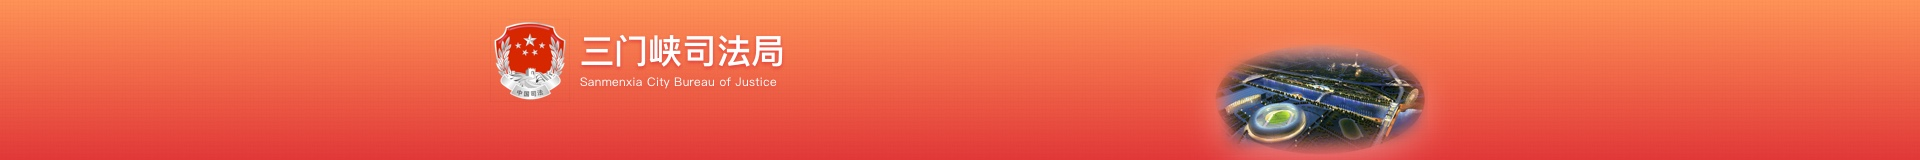
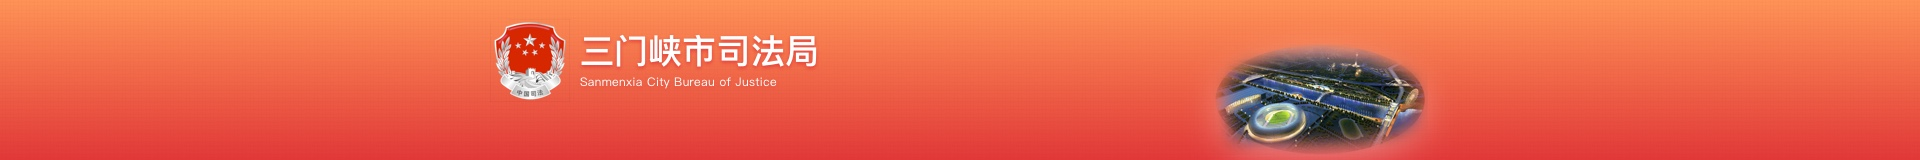
网上办事搜索跳转 搜索带关键字 banner图修改

Changed region(s): [[0.3438, 0.2188, 0.4375, 0.4375]]

diff --git a/public/css/web-style.css b/public/css/web-style.css
@@ -402,6 +402,12 @@ tr {display: table-row;vertical-align: inherit;border-color: inherit;}
 
 .left_title span{ font-family: MicrosoftYaHei; font-size: 14px; color: #DD3938}
 
+.mz_plus{ width: 80px; height: 20px; line-height: 20px; background: url("../images/plus.png") left no-repeat; float: right; text-align: right}
+
+.mz_plus a{ font-family: MicrosoftYaHei;font-size: 14px;color: #E23939;letter-spacing: 0; text-decoration: none}
+
+.mz_plus a:hover{ font-family: MicrosoftYaHei;font-size: 14px;color: #E23939;letter-spacing: 0; text-decoration: none}
+
 
 
 

diff --git a/resources/views/judicial/web/service/search.blade.php b/resources/views/judicial/web/service/search.blade.php
@@ -1,37 +1,51 @@
 <!DOCTYPE html>
 <html>
 @include('judicial.web.chips.headIndexWB')
-
 <body>
+<!--头部导航-->
 @include('judicial.web.chips.nav')
 
-<!--内容-->
-<div class="zw_right serach" style="min-height: 400px">
-    <div class="serach_body">
-        <form action="{{ URL::to('service/search') }}" method="post">
-            <input type="hidden" name="_token" value="<?php echo csrf_token(); ?>">
-            <input type="search" name="keywords" placeholder="输入搜索关键词" value="" style=" padding-right:10px; height: 40px; background: #FFFFFF; border: 1px solid #ECECEC;">
-            <button type="submit" class="serach_btn">搜索</button>
-        </form>
-    </div>
-    @if(isset($no_search) && $no_search=='yes')
-        <div class="serach_mid">
-            <p style="text-align: center;font-family: MicrosoftYaHei;font-size: 14px;color: #929292;letter-spacing: 0; margin-top: 40px">
-                请输入您要搜索的关键字
-            </p>
+        <!--内容-->
+<div class="w1024 zw_mb">
+    <!-- 左侧菜单 -->
+    @include('judicial.web.layout.serviceLeft')
+
+    <div class="zw_right w810">
+        <!--搜索栏-->
+        <div class="index_search ws_search">
+            <div class="id_sch_l">
+                办事事项查询
+            </div>
+            <div class="id_sch_r">
+                <form action="{{ URL::to('service/search') }}" method="post">
+                    <input type="hidden" name="_token" value="<?php echo csrf_token(); ?>">
+                    <input type="search" name="keywords" placeholder="输入搜索关键词" value="@if(isset($keywords) && !empty($keywords)) {{ $keywords }} @endif"/>
+                    <button type="submit">查询</button>
+                </form>
+            </div>
         </div>
-    @else
-    <div class="serach_mid">
-        @if($search_list != 'none')
-        <ul>
-            @foreach($search_list as $search)
-            <li>
-                <div class="serach_a"><a href="{{ URL::to('service/article').'/'.$search['key'] }}">{{ spilt_title($search['article_title'], 40) }}</a></div>
-                <div class="serach_b">{{ date('Y-m-d',strtotime($search['publish_date'])) }}</div>
-            </li>
-            @endforeach
-        </ul>
+
+        <div class="zwr_mid">
+            @if($search_list != 'none')
+                <ul>
+                    @foreach($search_list as $search)
+                        <li>
+                            <div class="zwrm_a" style="width: 650px; color: #222222">
+                                <a href="{{ URL::to('/article').'/'.$search['key'] }}">{{ spilt_title($search['article_title'], 40) }}</a>
+                            </div>
+                            <div class="zwrm_b" style="width: 120px; text-align: right">
+                                {{ date('Y-m-d',strtotime($search['publish_date'])) }}
+                            </div>
+                        </li>
+                    @endforeach
+                </ul>
+            @else
+                <p style="width: 100%; text-align: center; margin: 0 auto; line-height: 50px; padding: 10px; font-size: 14px; color: #929292">没有相关联的搜索结果！</p>
+            @endif
+        </div>
+
         <!--分页-->
+        @if($search_list != 'none')
             @if($page['page_count'] == 1 )
                 <div class="zwr_ft">
                     <div class="fy_left">
@@ -60,21 +74,25 @@
                         <span>总记录数：{{ $page['count'] }}</span>
                         <span>显示 16 条记录</span>
                         <span>当前页{{ $page['now_page'] }}/{{ $page['page_count'] }}</span>
-                        <span>跳转至第<input type="text" value="1"/>页</span>
+                        <span>跳转至第<input type="text" value="1">页</span>
                         <span class="fy_btn">跳转</span>
                     </div>
                 </div>
             @endif
-        <!--分页-->
-        @else
-            <p style="text-align: center;font-family: MicrosoftYaHei;font-size: 14px;color: #929292;letter-spacing: 0; margin-top: 40px">
-                未在网上办事模块下搜索到有关的办事事项！试试<a href="{{ URL::route('search') }}">全站搜索</a>?
-            </p>
+            <!--分页-->
         @endif
-    </div>
-    @endif
-</div>
 
+    </div>
+
+</div>
 
 <!--底部-->
 @include('judicial.web.chips.foot')
+<script>
+    $(function(){
+        $('#header').load('header.html');
+        $('#footer').load('footer.html');
+    })
+</script>
+</body>
+</html>

diff --git a/resources/views/judicial/web/service/consultionList.blade.php b/resources/views/judicial/web/service/consultionList.blade.php
@@ -7,25 +7,24 @@
 
 <!--内容-->
 <div class="w1024 zw_mb">
-    <div class="container-fluid" style="margin-top: 30px">
-        <div class="col-md-offset-3 col-md-3">
-            <a href="{{ URL::to('consultions/add') }}" class="btn btn-danger btn-block" style="width: 180px; height:40px; line-height: 30px">咨询问题</a>
-        </div>
-        <div class=" col-md-3">
-            <a href="{{ URL::to('suggestions/add') }}" class="btn btn-danger btn-block" style="width: 180px; height:40px; line-height: 30px">征求意见</a>
+    <div class="container-fluid" style="margin-top: 20px; padding-right: 0">
+        <div class="mz_plus">
+            <a href="{{ URL::to('consultions/add') }}">
+                咨询问题
+            </a>
         </div>
     </div>
     <!--搜索栏-->
-    <div class="container-fluid" style="padding: 0px">
+    <div class="container-fluid" style="padding-right: 0">
         <div class="left_title">
             <span>问题咨询列表</span>
         </div>
-        <div class="id_sch_r" style="padding-top: 30px">
+        <div class="id_sch_r" style="padding-top: 20px; margin-right: 0">
             <form action="{{ URL::to('consultions/search') }}" method="post">
                 <input type="hidden" name="_token" value="<?php echo csrf_token(); ?>">
                 <input type="search" name="keywords" placeholder="查询受理编号/问题标题" value="" style="width: 450px">
-                &nbsp;&nbsp;&nbsp;&nbsp;
-                <button type="submit">搜索</button>
+                &nbsp;&nbsp;
+                <button type="submit" style="right: 0">搜索</button>
             </form>
         </div>
     </div>

diff --git a/resources/views/judicial/web/service/suggestionList.blade.php b/resources/views/judicial/web/service/suggestionList.blade.php
@@ -7,25 +7,24 @@
 
 <!--内容-->
 <div class="w1024 zw_mb">
-    <div class="container-fluid" style="margin-top: 30px">
-        <div class="col-md-offset-3 col-md-3">
-            <a href="{{ URL::to('consultions/add') }}" class="btn btn-danger btn-block" style="width: 180px; height:40px; line-height: 30px">咨询问题</a>
-        </div>
-        <div class=" col-md-3">
-            <a href="{{ URL::to('suggestions/add') }}" class="btn btn-danger btn-block" style="width: 180px; height:40px; line-height: 30px">征求意见</a>
+    <div class="container-fluid" style="margin-top: 20px; padding-right: 0">
+        <div class="mz_plus">
+            <a href="{{ URL::to('suggestions/add') }}">
+                征求意见
+            </a>
         </div>
     </div>
     <!--搜索栏-->
-    <div class="container-fluid">
+    <div class="container-fluid" style="padding-right: 0">
         <div class="left_title">
             <span>征求意见列表</span>
         </div>
-        <div class="id_sch_r" style="padding-top: 30px">
+        <div class="id_sch_r" style="padding-top: 20px; margin-right: 0">
             <form action="{{ URL::to('suggestions/search') }}" method="post">
                 <input type="hidden" name="_token" value="<?php echo csrf_token(); ?>">
                 <input type="search" name="keywords" placeholder="查询受理编号/问题标题" value="" style="width: 450px">
-                &nbsp;&nbsp;&nbsp;&nbsp;
-                <button type="submit">搜索</button>
+                &nbsp;&nbsp;
+                <button type="submit" style="right: 0">搜索</button>
             </form>
         </div>
     </div>

diff --git a/app/Http/Controllers/Service/Index.php b/app/Http/Controllers/Service/Index.php
@@ -230,6 +230,7 @@ class Index extends Controller
 
     public function search(Request $request){
         $this->page_data['no_search'] = 'yes';
+        $this->page_data['_now'] = 'wsbs';
         return view('judicial.web.service.search', $this->page_data);
     }
 
@@ -237,6 +238,8 @@ class Index extends Controller
     {
         $keywords = $request->input('keywords');
         $count = 0;
+        $this->page_data['_now'] = 'wsbs';
+        $this->page_data['keywords'] = trim($keywords);
         if(empty($keywords)){
             $this->page_data['page'] = array(
                 'count' => $count,
@@ -282,7 +285,6 @@ class Index extends Controller
                 );
             }
         }
-        $this->page_data['_now'] = 'index';
         $this->page_data['page'] = array(
             'count' => $count,
             'page_count' => ($count>16) ? (ceil($count / 16)) + 1 : 1,

diff --git a/app/Http/Controllers/Web/Index.php b/app/Http/Controllers/Web/Index.php
@@ -240,6 +240,7 @@ class Index extends Controller
                 'now_page' => 1,
             );
             $this->page_data['search_list'] = 'none';
+            $this->page_data['keywords'] = $keywords;
             return view('judicial.web.search', $this->page_data);
         }
         else{
@@ -258,6 +259,7 @@ class Index extends Controller
             'page_count' => ($count>16) ? (ceil($count / 16)) + 1 : 1,
             'now_page' => 1,
         );
+        $this->page_data['keywords'] = $keywords;
         $this->page_data['search_list'] = $search_list;
         return view('judicial.web.search', $this->page_data);
     }
